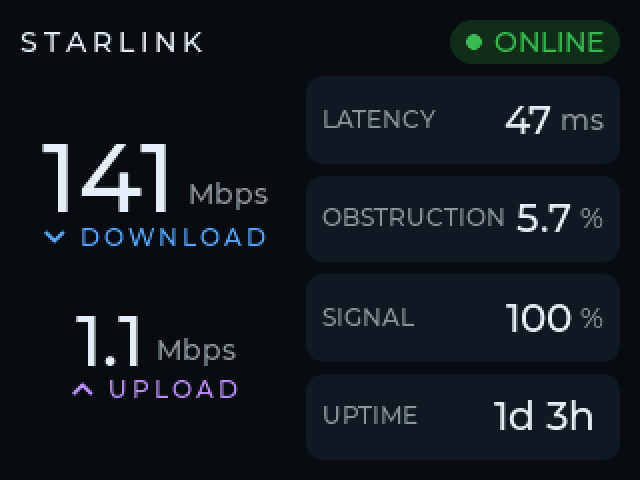
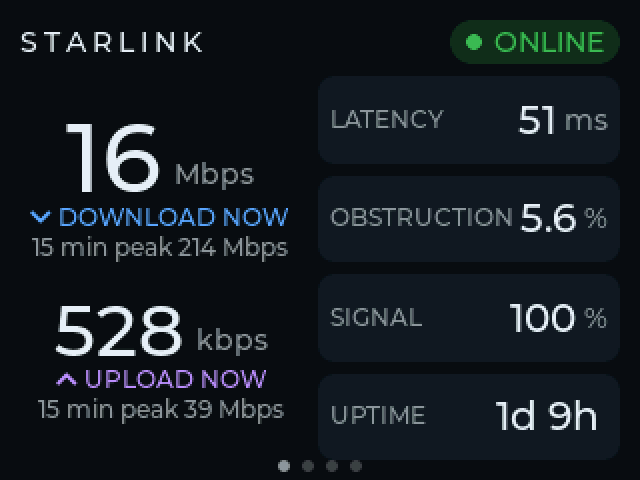
Clarify live throughput and show 15-minute peaks
The dish reports traffic actually flowing, not link capacity, so an idle
connection reads a few kbps. Captions now say DOWNLOAD NOW / UPLOAD NOW
("Download now" on the web page), and each shows its 15-minute peak from
the history buffer, computed once per poll into the snapshot. Dashboard
spacing adjusted so both orientations still fit.

diff --git a/firmware/src/ui/DashboardScreen.cpp b/firmware/src/ui/DashboardScreen.cpp
@@ -97,6 +97,8 @@ DashboardScreen::Metric DashboardScreen::makeMetric(lv_obj_t* parent, const lv_f
 
     m.caption = label(m.box, &lv_font_montserrat_12, accent, caption);
     lv_obj_set_style_text_letter_space(m.caption, 2, 0);
+    m.peak = label(m.box, &lv_font_montserrat_12, kMuted, "");
+    lv_obj_add_flag(m.peak, LV_OBJ_FLAG_HIDDEN);
     return m;
 }
 
@@ -110,7 +112,7 @@ DashboardScreen::Metric DashboardScreen::makeTile(lv_obj_t* parent, const char* 
     lv_obj_set_style_bg_color(m.box, lv_color_hex(kCard), 0);
     lv_obj_set_style_bg_opa(m.box, LV_OPA_COVER, 0);
     lv_obj_set_style_radius(m.box, 8, 0);
-    lv_obj_set_style_pad_ver(m.box, 6, 0);
+    lv_obj_set_style_pad_ver(m.box, 3, 0);  // tight: the 15-min peak lines need the height
     lv_obj_set_style_pad_hor(m.box, 4, 0);
 
     lv_obj_t* row = container(m.box, LV_FLEX_FLOW_ROW);
@@ -177,8 +179,9 @@ void DashboardScreen::build(Callback onLongPress, void* ctx) {
 
     _primary = container(_body, LV_FLEX_FLOW_COLUMN);
     lv_obj_set_flex_align(_primary, LV_FLEX_ALIGN_SPACE_EVENLY, LV_FLEX_ALIGN_CENTER, LV_FLEX_ALIGN_CENTER);
-    _download = makeMetric(_primary, &sm_font_num_48, LV_SYMBOL_DOWN " DOWNLOAD", kAccentDown);
-    _upload = makeMetric(_primary, &sm_font_num_36, LV_SYMBOL_UP " UPLOAD", kAccentUp);
+    // "NOW": the dish reports current traffic, not link capacity.
+    _download = makeMetric(_primary, &sm_font_num_48, LV_SYMBOL_DOWN " DOWNLOAD NOW", kAccentDown);
+    _upload = makeMetric(_primary, &sm_font_num_36, LV_SYMBOL_UP " UPLOAD NOW", kAccentUp);
 
     _grid = lv_obj_create(_body);
     lv_obj_remove_style_all(_grid);
@@ -229,14 +232,14 @@ void DashboardScreen::applyLayout(bool landscape) {
     if (landscape) {
         lv_obj_set_flex_flow(_body, LV_FLEX_FLOW_ROW);
         lv_obj_set_style_pad_column(_body, 8, 0);
-        lv_obj_set_size(_primary, LV_PCT(45), LV_PCT(100));
+        lv_obj_set_size(_primary, LV_PCT(47), LV_PCT(100));
         lv_obj_set_flex_grow(_primary, 0);
         lv_obj_set_flex_grow(_grid, 1);
         lv_obj_set_height(_grid, LV_PCT(100));
         lv_obj_set_grid_dsc_array(_grid, cols1, rows4);
     } else {
         lv_obj_set_flex_flow(_body, LV_FLEX_FLOW_COLUMN);
-        lv_obj_set_style_pad_row(_body, 8, 0);
+        lv_obj_set_style_pad_row(_body, 4, 0);
         // Reset every size the landscape layout set, or rotating back
         // leaves the numbers squeezed out by a full-height grid.
         lv_obj_set_size(_primary, LV_PCT(100), LV_SIZE_CONTENT);
@@ -245,6 +248,9 @@ void DashboardScreen::applyLayout(bool landscape) {
         lv_obj_set_size(_grid, LV_PCT(100), LV_SIZE_CONTENT);
         lv_obj_set_grid_dsc_array(_grid, cols2, rows2);
     }
+
+    // "DOWNLOAD NOW" with letter spacing is wider than the landscape column.
+    for (Metric* m : {&_download, &_upload}) lv_obj_set_style_text_letter_space(m->caption, landscape ? 0 : 2, 0);
 
     const lv_font_t* tileFont = landscape ? &lv_font_montserrat_20 : &lv_font_montserrat_28;
     for (int i = 0; i < 4; ++i) {
@@ -256,7 +262,7 @@ void DashboardScreen::applyLayout(bool landscape) {
         lv_obj_set_flex_flow(t->box, landscape ? LV_FLEX_FLOW_ROW_REVERSE : LV_FLEX_FLOW_COLUMN);
         lv_obj_set_flex_align(t->box, landscape ? LV_FLEX_ALIGN_SPACE_BETWEEN : LV_FLEX_ALIGN_CENTER,
                               LV_FLEX_ALIGN_CENTER, LV_FLEX_ALIGN_CENTER);
-        lv_obj_set_style_pad_hor(t->box, landscape ? 8 : 4, 0);
+        lv_obj_set_style_pad_hor(t->box, landscape ? 6 : 4, 0);
         lv_obj_set_style_text_font(t->value, tileFont, 0);
         lv_obj_set_style_pad_bottom(t->unit, unitBaselinePad(tileFont), 0);
     }
@@ -295,6 +301,16 @@ void DashboardScreen::showHealth(const Health& h, bool panelVisible) {
         setText(_reason, h.reason);
         setColor(_reason, look.color);
     }
+}
+
+void DashboardScreen::showPeak(lv_obj_t* label, const std::optional<float>& bps) {
+    setVisible(label, bps.has_value());
+    if (!bps) return;
+    char num[16], buf[40];
+    const char* unit;
+    fmt::throughput(bps, num, sizeof(num), &unit);
+    snprintf(buf, sizeof(buf), "15 min peak %s %s", num, unit);
+    setText(label, buf);
 }
 
 void DashboardScreen::showMetrics(const starlink::StarlinkStatus& st) {
@@ -368,6 +384,8 @@ void DashboardScreen::update(const starlink::StarlinkSnapshot& s, uint32_t nowMs
     setVisible(_panel, !fresh);
     if (fresh) {
         showMetrics(s.status);
+        showPeak(_download.peak, s.peakDownBps);
+        showPeak(_upload.peak, s.peakUpBps);
     } else {
         showPanel(s, h, nowMs);
     }

diff --git a/firmware/src/ui/DashboardScreen.h b/firmware/src/ui/DashboardScreen.h
@@ -25,6 +25,7 @@ private:
         lv_obj_t* value;
         lv_obj_t* unit;
         lv_obj_t* caption;
+        lv_obj_t* peak;  // primary metrics only
     };
 
     Metric makeMetric(lv_obj_t* parent, const lv_font_t* valueFont, const char* caption, uint32_t accent);
@@ -33,6 +34,7 @@ private:
     starlink::Health holdDegraded(const starlink::Health& h, uint32_t now);
     void showHealth(const starlink::Health& h, bool panelVisible);
     void showMetrics(const starlink::StarlinkStatus& st);
+    void showPeak(lv_obj_t* label, const std::optional<float>& bps);
     void showPanel(const starlink::StarlinkSnapshot& s, const starlink::Health& h, uint32_t now);
 
     static void onLongPressed(lv_event_t* e);

diff --git a/firmware/src/starlink/StarlinkSnapshot.h b/firmware/src/starlink/StarlinkSnapshot.h
@@ -2,6 +2,8 @@
 
 #include <stdint.h>
 
+#include <optional>
+
 #include "Health.h"
 #include "StarlinkClient.h"
 #include "StarlinkStatus.h"
@@ -23,6 +25,11 @@ struct StarlinkSnapshot {
     Health health;
     bool hasStatus = false;
     StarlinkStatus status;
+    // Highest throughput in the 15-minute history window. The live values
+    // are *current traffic* (often a few kbps when idle); the peak hints at
+    // what the link actually carried recently.
+    std::optional<float> peakDownBps;
+    std::optional<float> peakUpBps;
     uint32_t lastOkMs = 0;  // millis() of the last good poll
     uint32_t lastRttMs = 0;
     uint16_t failures = 0;  // consecutive

diff --git a/firmware/src/network/WebPage.h b/firmware/src/network/WebPage.h
@@ -59,8 +59,8 @@ button{font:inherit;cursor:pointer}
   <div class="row"><h2>STATUS</h2><span class="badge" id="health">--</span></div>
   <p class="hint" id="reason"></p>
   <div class="grid">
-    <div><b id="down">--</b><span>Download</span></div>
-    <div><b id="up">--</b><span>Upload</span></div>
+    <div><b id="down">--</b><span>Download now</span></div>
+    <div><b id="up">--</b><span>Upload now</span></div>
     <div><b id="lat">--</b><span>Latency</span></div>
     <div><b id="obs">--</b><span>Obstruction</span></div>
     <div><b id="sig">--</b><span>Signal</span></div>

diff --git a/firmware/src/starlink/StarlinkService.cpp b/firmware/src/starlink/StarlinkService.cpp
@@ -229,6 +229,11 @@ void StarlinkService::publish() {
     snap.lastError = _lastError;
     strlcpy(snap.host, _host, sizeof(snap.host));
     snap.health = evaluateHealth(snap);
+    {
+        std::lock_guard<std::mutex> lock(_historyMutex);  // 450 slots: cheap, once per poll
+        snap.peakDownBps = _history.stats(Series::Down).max;
+        snap.peakUpBps = _history.stats(Series::Up).max;
+    }
 
     const Health& h = snap.health;
     if (h.state != _health.state || strcmp(h.reason, _health.reason) != 0) {

diff --git a/README.md b/README.md
@@ -19,7 +19,10 @@ no extra server.
 
 - **Dashboard:** dish state (ONLINE, DEGRADED, OFFLINE, ERROR,
   CONNECTING), shown as a word and a symbol, not just a colour. Also
-  download, upload, latency, obstruction, signal quality and uptime.
+  current download and upload, each with its 15-minute peak, plus latency,
+  obstruction, signal quality and uptime. The dish reports traffic actually
+  flowing, not link capacity: an idle connection shows a few kbps, and the
+  peak shows what it carried recently.
 - **History:** 15-minute throughput and latency graphs, filled from the
   dish's own history the moment the monitor starts.
 - **Alignment:** where the dish points versus where Starlink wants it to,

diff --git a/CHANGELOG.md b/CHANGELOG.md
@@ -10,8 +10,9 @@ First release. Supports the ESP32-2432S028 ("Cheap Yellow Display")
 
 ### Display
 - Dashboard: state (ONLINE / DEGRADED / OFFLINE / ERROR / CONNECTING,
-  shown as a symbol and a word), download, upload, latency, obstruction,
-  signal and uptime. Portrait and landscape layouts.
+  shown as a symbol and a word), current download and upload with their
+  15-minute peaks, latency, obstruction, signal and uptime. Portrait and
+  landscape layouts.
 - History: 15-minute throughput and latency graphs, filled from the dish's
   own history right after power-up.
 - Alignment: current vs desired dish pointing on a top-down plot, with
